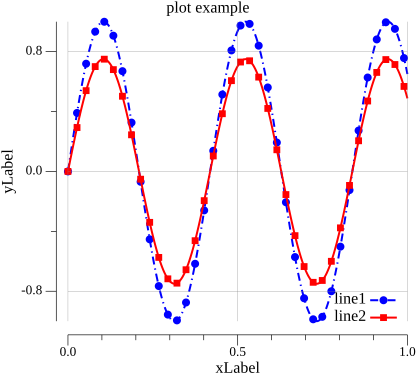
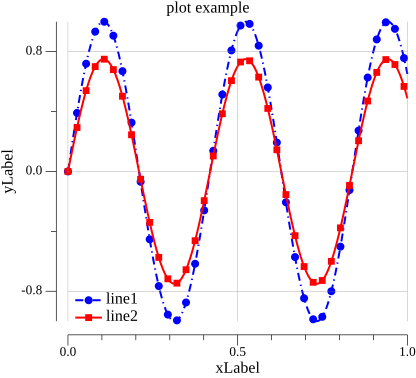
implement legend location

Changed region(s): [[0.7812, 0.7566, 0.9688, 0.873], [0.1875, 0.7566, 0.3438, 0.873]]

diff --git a/plotter/legend.go b/plotter/legend.go
@@ -1,0 +1,60 @@
+package plotter
+
+import "gonum.org/v1/plot/vg"
+
+type location string
+
+const (
+	UpperRight location = "upper_right"
+	UpperLeft  location = "upper_left"
+	LowerRight location = "lower_right"
+	LowerLeft  location = "lower_left"
+)
+
+type LegendLocation interface {
+	Location(loc location)
+}
+
+// legend mainly used in lines plots
+func (plt *plotParameters) Legend(str ...string) LegendLocation {
+	// legend style
+	if len(plt.legends) > 0 {
+		str = str[:min(len(str), len(plt.legends))]
+		for i, legend := range str {
+			plt.plot.Legend.Add(legend, plt.legends[i]...)
+		}
+		plt.plot.Legend.XOffs = -5. * vg.Millimeter
+		plt.plot.Legend.Padding = vg.Millimeter
+	}
+
+	return plt
+}
+
+// legend position
+func (plt *plotParameters) Location(loc location) {
+	switch loc {
+	case UpperRight:
+		plt.plot.Legend.Top = true
+		plt.plot.Legend.Left = false
+		plt.plot.Legend.XOffs = -5. * vg.Millimeter
+		plt.plot.Legend.Padding = vg.Millimeter
+
+	case UpperLeft:
+		plt.plot.Legend.Top = true
+		plt.plot.Legend.Left = true
+		plt.plot.Legend.XOffs = 3. * vg.Millimeter
+		plt.plot.Legend.Padding = vg.Millimeter
+
+	case LowerRight:
+		plt.plot.Legend.Top = false
+		plt.plot.Legend.Left = false
+		plt.plot.Legend.XOffs = -5. * vg.Millimeter
+		plt.plot.Legend.Padding = vg.Millimeter
+
+	case LowerLeft:
+		plt.plot.Legend.Top = false
+		plt.plot.Legend.Left = true
+		plt.plot.Legend.XOffs = 3. * vg.Millimeter
+		plt.plot.Legend.Padding = vg.Millimeter
+	}
+}

diff --git a/plotter/plotter.go b/plotter/plotter.go
@@ -37,7 +37,7 @@ type PlotterInterface interface {
 	Title(str string)
 	XLabel(xlabel string)
 	YLabel(ylabel string)
-	Legend(str ...string)
+	Legend(str ...string) LegendLocation
 	XLim(xmin, xmax float64)
 	YLim(ymin, ymax float64)
 	Grid()
@@ -513,16 +513,6 @@ func (plt *plotParameters) XLabel(xlabel string) {
 // ylabel for all plots
 func (plt *plotParameters) YLabel(ylabel string) {
 	plt.plot.Y.Label.Text = ylabel
-}
-
-// legend mainly used in lines plots
-func (plt *plotParameters) Legend(str ...string) {
-	// legend style
-	for i, legend := range str {
-		plt.plot.Legend.Add(legend, plt.legends[i]...)
-		plt.plot.Legend.XOffs = -5. * vg.Millimeter
-		plt.plot.Legend.Padding = vg.Millimeter
-	}
 }
 
 // set the x-axis vies limits

diff --git a/examples/histogram/histogram.go b/examples/histogram/histogram.go
@@ -26,7 +26,7 @@ func main() {
 		plotter.WithHistNormalCurve(plotter.Red),
 	)
 	plt.Title("histogram plot example")
-	plt.Legend("kde curve", "normal curve")
+	plt.Legend("kde curve", "normal curve").Location(plotter.UpperRight)
 	plt.XLabel("x")
 
 	plt.Show()

diff --git a/examples/line/line.go b/examples/line/line.go
@@ -35,7 +35,7 @@ func main() {
 	plt.Title("plot example")
 	plt.XLabel("xLabel")
 	plt.YLabel("yLabel")
-	plt.Legend("line1", "line2")
+	plt.Legend("line1", "line2").Location(plotter.LowerLeft)
 	plt.Grid()
 
 	plt.Save("line.png")
